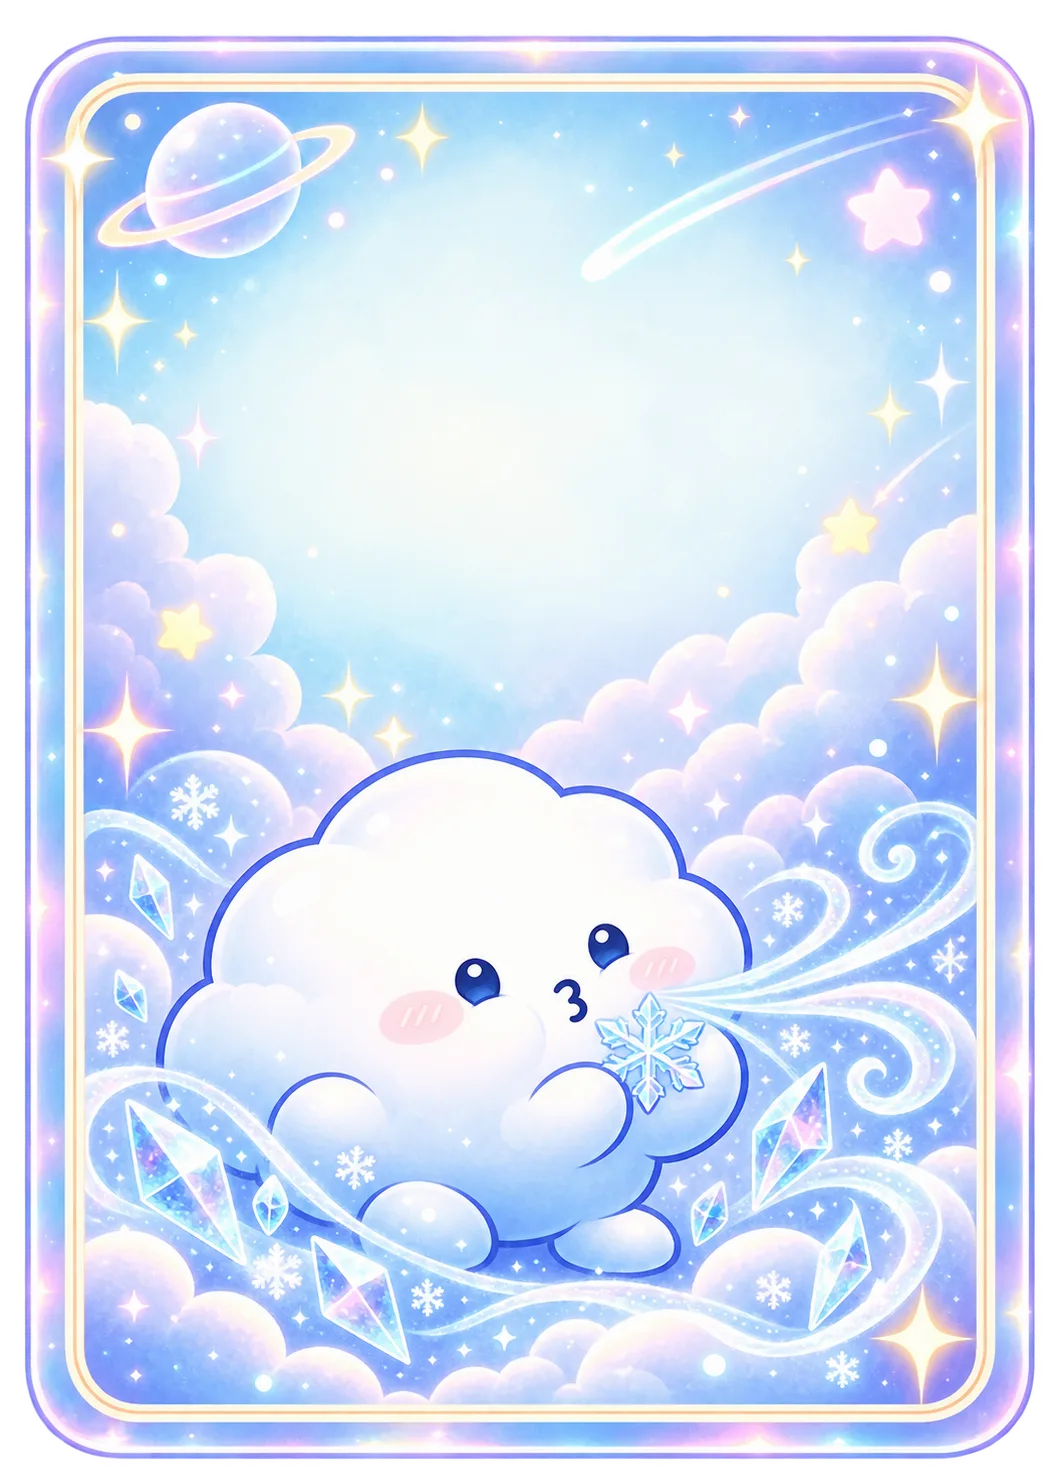
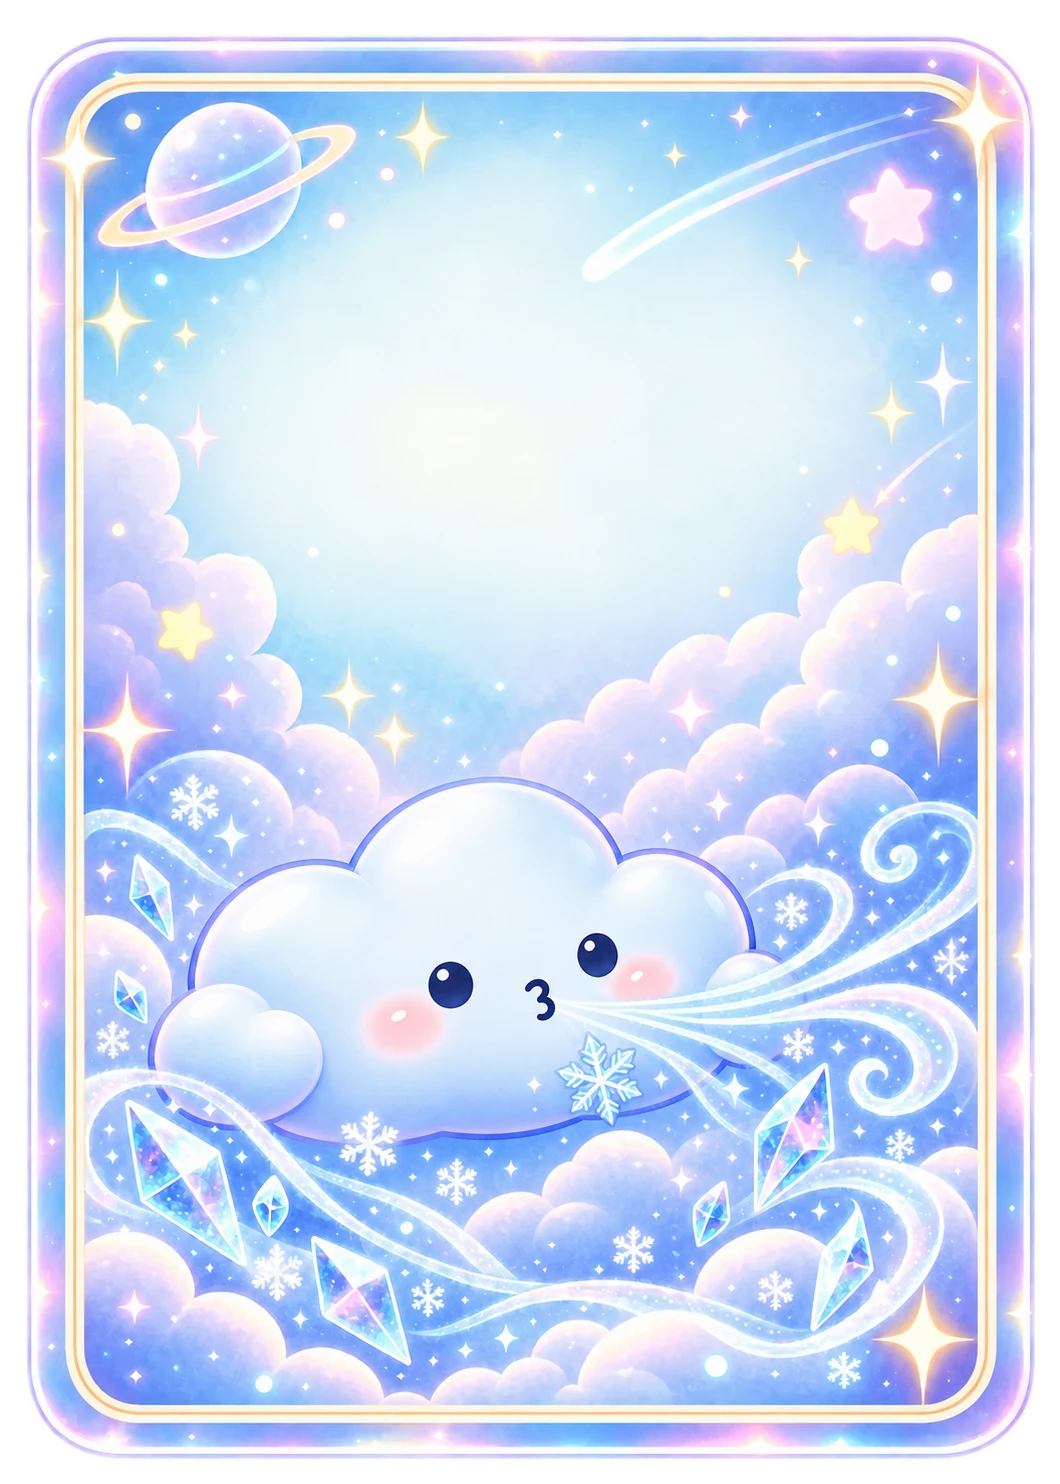
Unify star and cloud mascot silhouettes across cards, BOTs and home artwork

diff --git a/README.md b/README.md
@@ -57,3 +57,5 @@ python3 -m http.server 8000
 
 宣言は初手も含めて1以上の整数です。0は宣言できません（カードの0や負数、負の合計とは別です）。根拠：ニューゲームズオーダー公式ルールの紙面4ページ。
 次ラウンドは敗者が残っていれば敗者から、敗者が脱落した場合はそのラウンドの勝者から始めます（同公式ルール紙面5ページ）。
+
+通常カードとBOTのキャラクターは共通の造形です。ほしもちはクリーム色の五つ星形、くもまるは横長の青い雲形で区別し、数字ごとのイラスト差分でもその特徴を維持します。うさぎ・ねこの絵柄は変更していません。
